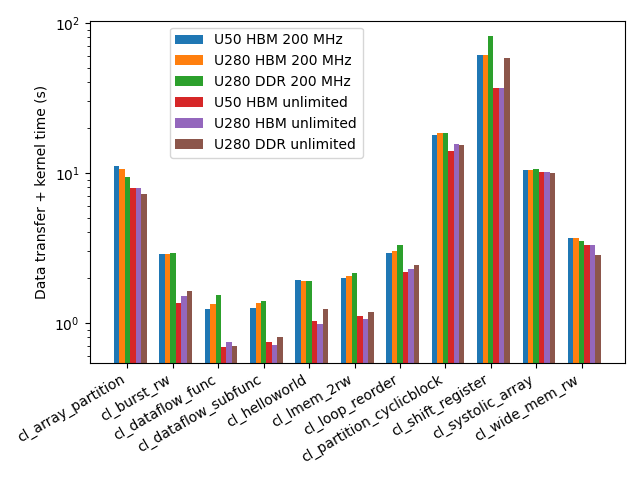
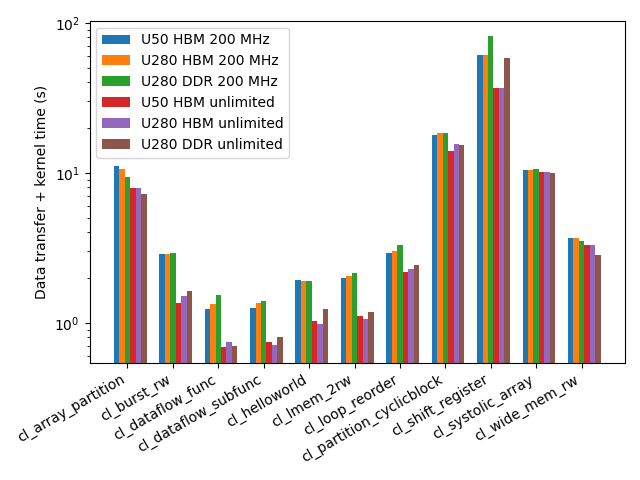
Change legend location for one exec time plot

Changed region(s): [[0.1562, 0.0625, 0.5625, 0.3125]]

diff --git a/performance/execution-time.py b/performance/execution-time.py
@@ -52,7 +52,7 @@ plt.xticks(x, app_names, rotation=30, ha="right")
 plt.ylabel("Data transfer + kernel time (s)")
 # plt.grid(which="both", axis="y")
 plt.yscale("log")
-plt.legend(loc=(0.15, 0.6))
+plt.legend()
 plt.tight_layout()
 
 filename = "execution-time-transfer-kernel.png"
